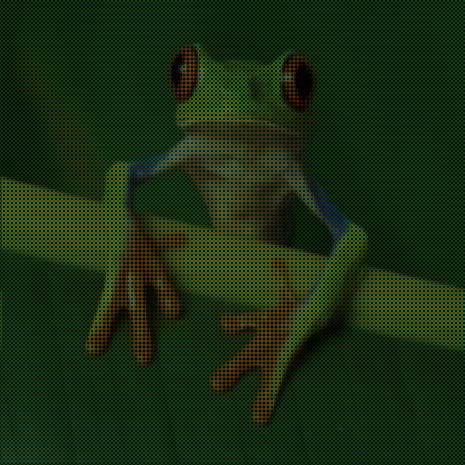
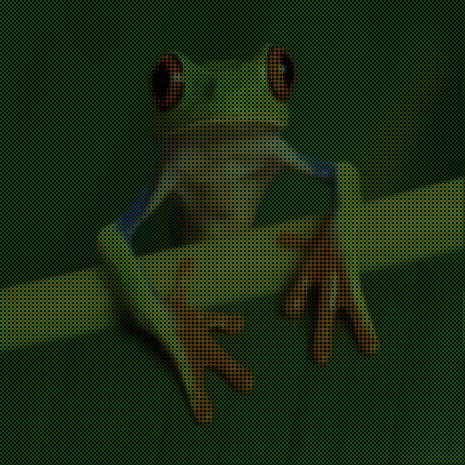
GLSL で画像にフィルタをかけてみるテスト（改2）

diff --git a/cx20/ieDG/index.html b/cx20/ieDG/index.html
@@ -28,9 +28,9 @@ varying vec2 vTextureCoord;
 void main(void)
 {
     vec2 p = gl_FragCoord.xy / SUBPIXEL_SIZE;
-    vec2 uv = floor(p)*SUBPIXEL_SIZE / resolution.xy;
+    vec2 uv = vTextureCoord; // floor(p)*SUBPIXEL_SIZE / resolution.xy;
     
-    vec4 color = texture2D(texture, -uv);    
+    vec4 color = texture2D(texture, uv);    
     vec4 result = vec4(0.0, 0.0, 0.0, 1.0);
     
     vec2 remainder = floor(mod(p, 2.0)+0.5);
